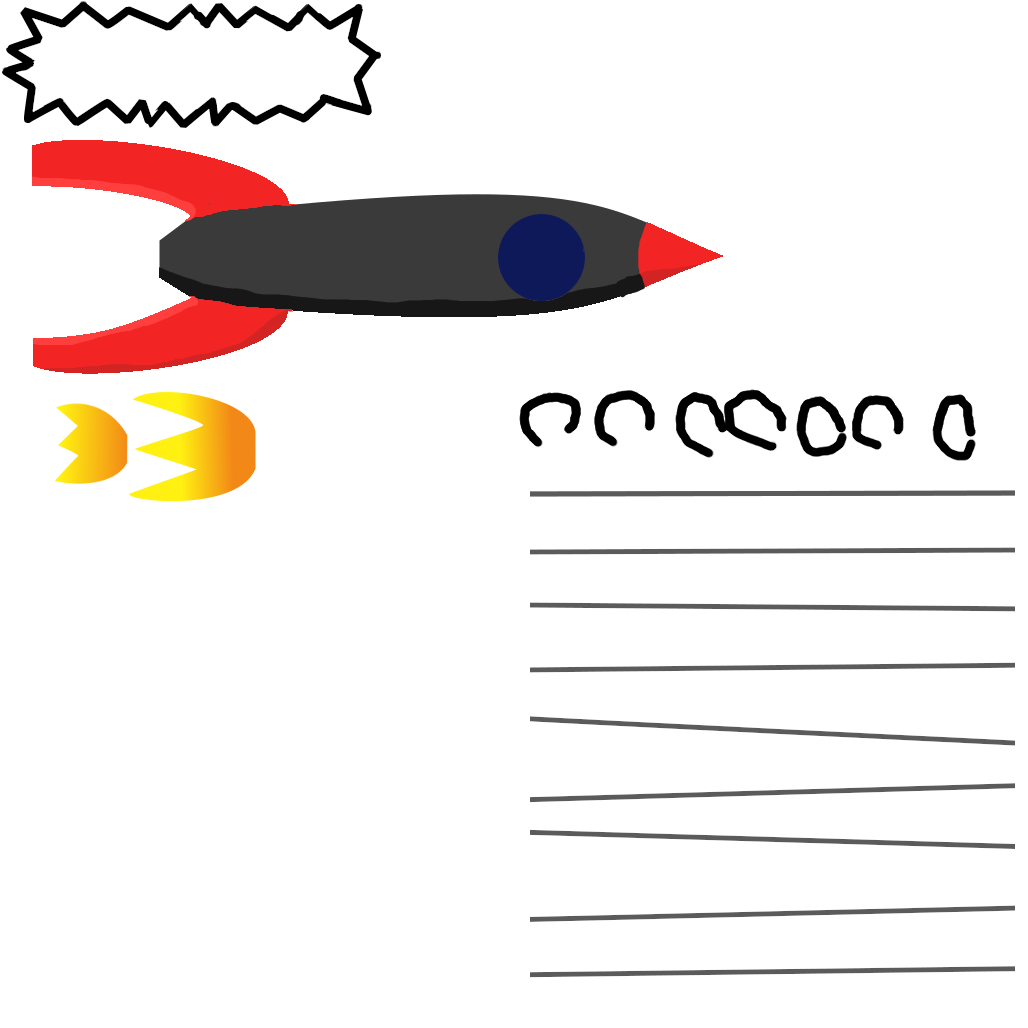
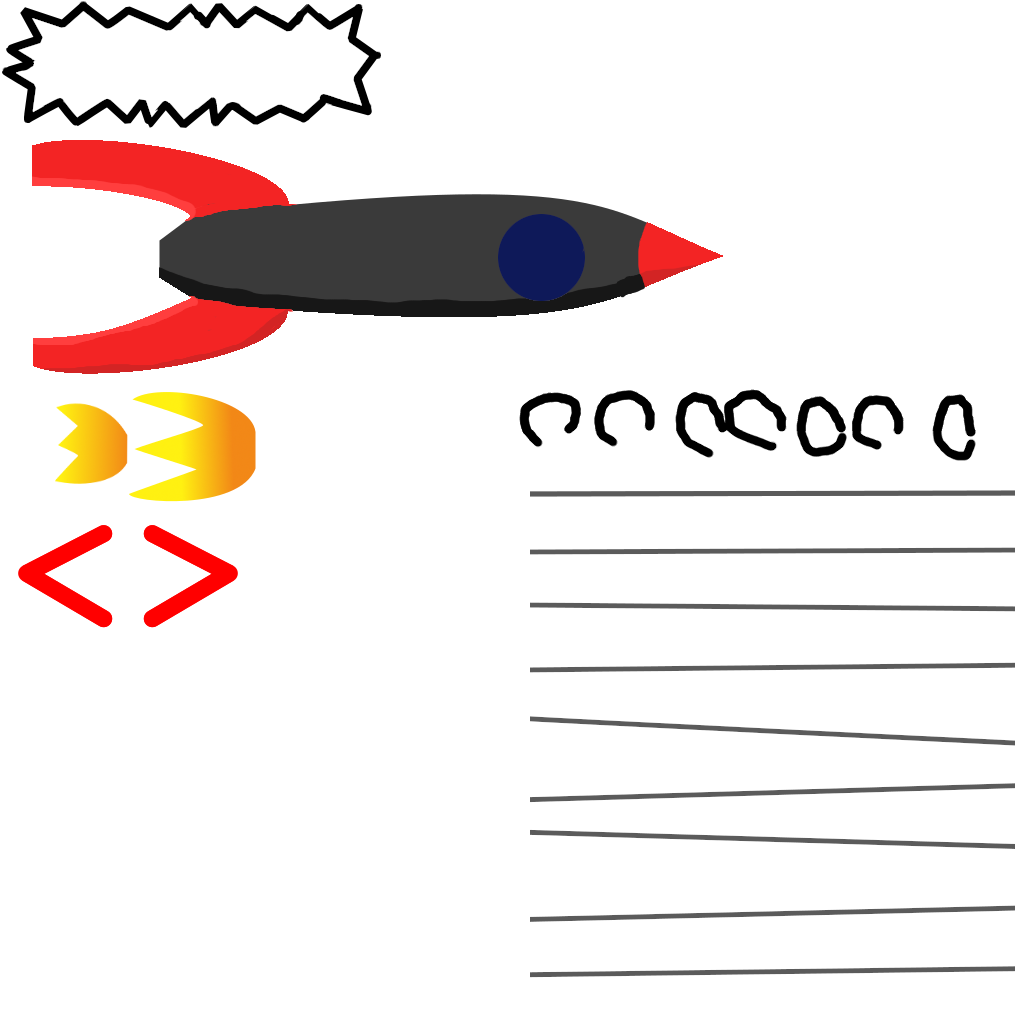
Added create server screen to the main menu.

Changed region(s): [[0.0, 0.4981, 0.249, 0.6226]]

diff --git a/client/src/client/MainMenu.java b/client/src/client/MainMenu.java
@@ -7,13 +7,15 @@ import javax.swing.*;
 import java.awt.*;
 import java.awt.image.BufferedImage;
 import java.io.*;
-import java.net.URLDecoder;
+import common.GameSettings;
 
 public class MainMenu extends JPanel {
 
     private boolean hasPlayedQuitAnimation = false;
-    private Image wham;
+    private Image wham, leftArrow, rightArrow;
     private Image rocket, flame0, flame1, block;
+
+    private GameSettings gameSettings = new GameSettings();
 
     MainMenu() {
         super(new CardLayout());
@@ -25,12 +27,15 @@ public class MainMenu extends JPanel {
             flame0 = spriteSheet.getSubimage(0, 384, 128, 128);
             flame1 = spriteSheet.getSubimage(128, 384, 128, 128);
             block = spriteSheet.getSubimage(512, 384, 512, 640);
+            leftArrow = spriteSheet.getSubimage(0, 512, 128, 128);
+            rightArrow = spriteSheet.getSubimage(128, 512, 128, 128);
         } catch (IOException e) {
             e.printStackTrace();
         }
 
         initMainMenu();
         initJoinGamePanel();
+        initCreateGamePanel();
     }
 
     private void initMainMenu() {
@@ -53,9 +58,8 @@ public class MainMenu extends JPanel {
         AwesomeUtil.wiggleOnHover(joinGameButton, (float)Math.PI * .1f);
         AwesomeUtil.scaleOnHover(createGameButton, 1.3f);
 
-        joinGameButton.addActionListener(e -> {
-            ((CardLayout)getLayout()).last(this);
-        });
+        joinGameButton.addActionListener(e -> ((CardLayout)getLayout()).next(this) );
+        createGameButton.addActionListener(e -> ((CardLayout)getLayout()).last(this) );
 
         quitButton.addActionListener(e -> {
             if (!hasPlayedQuitAnimation) {
@@ -110,8 +114,8 @@ public class MainMenu extends JPanel {
         panel.add(code);
         panel.add(bg);
 
-        layout.getConstraints(back).setPosition(0.3f, 0.7f).setSize(0.3f, 0.5f);
-        layout.getConstraints(accept).setPosition(0.7f, 0.7f).setSize(0.3f, 0.5f);
+        layout.getConstraints(back).setPosition(0.3f, 0.8f).setSize(0.3f, 0.5f);
+        layout.getConstraints(accept).setPosition(0.7f, 0.8f).setSize(0.3f, 0.5f);
         layout.getConstraints(code).setPosition(0.5f, 0.3f).setSize(0.8f, 0.2f);
         layout.getConstraints(input).setPosition(0.5f, 0.5f).setSize(0.8f, 0.2f);
         layout.getConstraints(bg).setPosition(0.5f, 0.5f).setSize(1.0f, 1.0f);
@@ -120,13 +124,156 @@ public class MainMenu extends JPanel {
         AwesomeUtil.wiggleOnHover(accept, (float)Math.PI * .1f);
 
         back.addActionListener(e -> {
-            ((CardLayout)getLayout()).first(this);
+            ((CardLayout)getLayout()).previous(this);
         });
 
         add(panel);
     }
 
     public void initCreateGamePanel() {
+        PercentLayout layout = new PercentLayout(1.0f);
+        JPanel panel = new JPanel(layout);
+        panel.setBackground(new Color(0, 0, 0, 0));
+        panel.setOpaque(true);
 
+        AwesomeText maxPlayersLabel = new AwesomeText("MAX PLAYERS:");
+        AwesomeButton increaseMaxPlayers = new AwesomeButton(rightArrow);
+        AwesomeButton decreaseMaxPlayers = new AwesomeButton(leftArrow);
+        AwesomeText maxPlayers = new AwesomeText(String.valueOf(gameSettings.getMaxPlayers()));
+        increaseMaxPlayers.addActionListener(e -> {
+            if (gameSettings.setMaxPlayers(gameSettings.getMaxPlayers() + 1)) {
+                maxPlayers.setText(String.valueOf(gameSettings.getMaxPlayers()));
+            } else {
+                AwesomeUtil.shakeHorizontally(maxPlayers, 20);
+            }
+        });
+        decreaseMaxPlayers.addActionListener(e -> {
+            if (gameSettings.setMaxPlayers(gameSettings.getMaxPlayers() - 1)) {
+                maxPlayers.setText(String.valueOf(gameSettings.getMaxPlayers()));
+            } else {
+                AwesomeUtil.shakeHorizontally(maxPlayers, 20);
+            }
+        });
+        panel.add(maxPlayersLabel);
+        panel.add(increaseMaxPlayers);
+        panel.add(decreaseMaxPlayers);
+        panel.add(maxPlayers);
+        layout.getConstraints(maxPlayersLabel).setPosition(0.3f, 0.15f).setSize(0.4f, 0.25f);
+        layout.getConstraints(increaseMaxPlayers).setPosition(0.9f, 0.15f).setSize(0.1f, 1.0f);
+        layout.getConstraints(decreaseMaxPlayers).setPosition(0.6f, 0.15f).setSize(0.1f, 1.0f);
+        layout.getConstraints(maxPlayers).setPosition(0.75f, 0.15f).setSize(0.2f, 0.5f);
+
+        AwesomeText numRoundsLabel = new AwesomeText("ROUNDS:");
+        AwesomeButton increase = new AwesomeButton(rightArrow);
+        AwesomeButton decrease = new AwesomeButton(leftArrow);
+        AwesomeText numRounds = new AwesomeText(String.valueOf(gameSettings.getNumRounds()));
+        increase.addActionListener(e -> {
+            if (gameSettings.setRounds(gameSettings.getNumRounds() + 1)) {
+                numRounds.setText(String.valueOf(gameSettings.getNumRounds()));
+            } else {
+                AwesomeUtil.shakeHorizontally(numRounds, 20);
+            }
+        });
+        decrease.addActionListener(e -> {
+            if (gameSettings.setRounds(gameSettings.getNumRounds() - 1)) {
+                numRounds.setText(String.valueOf(gameSettings.getNumRounds()));
+            } else {
+                AwesomeUtil.shakeHorizontally(numRounds, 20);
+            }
+        });
+        panel.add(numRoundsLabel);
+        panel.add(increase);
+        panel.add(decrease);
+        panel.add(numRounds);
+        layout.getConstraints(numRoundsLabel).setPosition(0.3f, 0.25f).setSize(0.4f, 0.25f);
+        layout.getConstraints(decrease).setPosition(0.6f, 0.25f).setSize(0.1f, 1.0f);
+        layout.getConstraints(increase).setPosition(0.9f, 0.25f).setSize(0.1f, 1.0f);
+        layout.getConstraints(numRounds).setPosition(0.75f, 0.25f).setSize(0.2f, 0.5f);
+
+        AwesomeText drawTimeLabel = new AwesomeText("DRAW TIME:");
+        AwesomeButton drawTimeIncrease = new AwesomeButton(rightArrow);
+        AwesomeButton drawTimeDecrease = new AwesomeButton(leftArrow);
+        AwesomeText drawTime = new AwesomeText(String.valueOf(gameSettings.getDrawTimeMilliseconds() / 1000L));
+        drawTimeIncrease.addActionListener(e -> {
+            int newSeconds = (int)(gameSettings.getDrawTimeMilliseconds() / 1000L) + 5;
+            if (gameSettings.setDrawTime(newSeconds)) {
+                drawTime.setText(String.valueOf(newSeconds));
+            } else {
+                AwesomeUtil.shakeHorizontally(drawTime, 20);
+            }
+        });
+        drawTimeDecrease.addActionListener(e -> {
+            int newSeconds = (int)(gameSettings.getDrawTimeMilliseconds() / 1000L) - 5;
+            if (gameSettings.setDrawTime(newSeconds)) {
+                drawTime.setText(String.valueOf(newSeconds));
+            } else {
+                AwesomeUtil.shakeHorizontally(drawTime, 20);
+            }
+        });
+        panel.add(drawTimeLabel);
+        panel.add(drawTimeIncrease);
+        panel.add(drawTimeDecrease);
+        panel.add(drawTime);
+        layout.getConstraints(drawTimeLabel).setPosition(0.3f, 0.35f).setSize(0.4f, 0.25f);
+        layout.getConstraints(drawTimeDecrease).setPosition(0.6f, 0.35f).setSize(0.1f, 1.0f);
+        layout.getConstraints(drawTimeIncrease).setPosition(0.9f, 0.35f).setSize(0.1f, 1.0f);
+        layout.getConstraints(drawTime).setPosition(0.75f, 0.35f).setSize(0.2f, 0.5f);
+
+        AwesomeText guessTimeLabel = new AwesomeText("GUESS TIME:");
+        AwesomeButton guessTimeIncrease = new AwesomeButton(rightArrow);
+        AwesomeButton guessTimeDecrease = new AwesomeButton(leftArrow);
+        AwesomeText guessTime = new AwesomeText(String.valueOf(gameSettings.getGuessTimeMilliseconds() / 1000L));
+        guessTimeIncrease.addActionListener(e -> {
+            int newSeconds = (int)(gameSettings.getGuessTimeMilliseconds() / 1000L) + 5;
+            if (gameSettings.setGuessTime(newSeconds)) {
+                guessTime.setText(String.valueOf(newSeconds));
+            } else {
+                AwesomeUtil.shakeHorizontally(guessTime, 20);
+            }
+        });
+        guessTimeDecrease.addActionListener(e -> {
+            int newSeconds = (int)(gameSettings.getGuessTimeMilliseconds() / 1000L) - 5;
+            if (gameSettings.setGuessTime(newSeconds)) {
+                guessTime.setText(String.valueOf(newSeconds));
+            } else {
+                AwesomeUtil.shakeHorizontally(guessTime, 20);
+            }
+        });
+        panel.add(guessTimeLabel);
+        panel.add(guessTimeIncrease);
+        panel.add(guessTimeDecrease);
+        panel.add(guessTime);
+        layout.getConstraints(guessTimeLabel).setPosition(0.3f, 0.45f).setSize(0.4f, 0.25f);
+        layout.getConstraints(guessTimeDecrease).setPosition(0.6f, 0.45f).setSize(0.1f, 1.0f);
+        layout.getConstraints(guessTimeIncrease).setPosition(0.9f, 0.45f).setSize(0.1f, 1.0f);
+        layout.getConstraints(guessTime).setPosition(0.75f, 0.45f).setSize(0.2f, 0.5f);
+
+        AwesomeText getChoicesLabel = new AwesomeText("CHOICES ENABLED:");
+        AwesomeButton choicesCountIncrease = new AwesomeButton(rightArrow);
+        AwesomeButton choicesCountDecrease = new AwesomeButton(leftArrow);
+        AwesomeText getChoices = new AwesomeText(gameSettings.getChooseWords() ? "Yes" : "No");
+        choicesCountIncrease.addActionListener(e -> { if (!gameSettings.getChooseWords())  { gameSettings.setChooseWords(); getChoices.setText("Yes"); } } );
+        choicesCountDecrease.addActionListener(e -> { if (gameSettings.getChooseWords()) { gameSettings.setChooseWords(); getChoices.setText("No"); } } );
+        panel.add(getChoicesLabel);
+        panel.add(choicesCountIncrease);
+        panel.add(choicesCountDecrease);
+        panel.add(getChoices);
+        layout.getConstraints(getChoicesLabel).setPosition(0.3f, 0.55f).setSize(0.4f, 0.25f);
+        layout.getConstraints(choicesCountIncrease).setPosition(0.9f, 0.55f).setSize(0.1f, 1.0f);
+        layout.getConstraints(choicesCountDecrease).setPosition(0.6f, 0.55f).setSize(0.1f, 1.0f);
+        layout.getConstraints(getChoices).setPosition(0.75f, 0.55f).setSize(0.2f, 0.5f);
+
+        AwesomeButton create = new AwesomeButton("Create");
+        AwesomeButton back = new AwesomeButton("Back");
+        panel.add(create);
+        panel.add(back);
+        layout.getConstraints(create).setPosition(0.75f, 0.8f).setSize(0.3f, 0.5f);
+        layout.getConstraints(back).setPosition(0.25f, 0.8f).setSize(0.3f, 0.5f);
+        create.addActionListener(e -> System.out.println("You created a server! (almost)"));
+        back.addActionListener(e -> ((CardLayout)getLayout()).first(this));
+        AwesomeUtil.wiggleOnHover(create, 0.1f);
+        AwesomeUtil.wiggleOnHover(back, 0.1f);
+
+        add(panel);
     }
 }

diff --git a/client/src/client/ui/AwesomeEffect.java b/client/src/client/ui/AwesomeEffect.java
@@ -34,6 +34,7 @@ public class AwesomeEffect {
         return new Builder();
     }
 
+    private final User target;
     private final Key[] keys;
     private Image sprite;
 
@@ -50,15 +51,15 @@ public class AwesomeEffect {
 
 
     private AwesomeEffect(Key[] keys, User user, int effects) {
+        target = user;
         this.keys = keys;
         this.effects = effects;
-        Component comp = user.getComponent();
         durationMillis = keys[keys.length - 1].timeStamp;
     }
 
     // Play the animation from the beginning in the forward direction.
     public void play() {
-        AwesomeUtil.register(this);
+        target.setEffect(this);
         elapsedMillis = 0;
         direction = FORWARD;
     }
@@ -70,18 +71,18 @@ public class AwesomeEffect {
 
     // Resumes the animation from where it's.
     public void resume() {
-        AwesomeUtil.register(this);
+        AwesomeUtil.register(target, this);
     }
 
     // Resumes the animation from where it's in the opposite direction.
     public void reverse() {
-        AwesomeUtil.register(this);
+        target.setEffect(this);
         direction = !direction;
     }
 
     // Resumes the animation from where it's in the given direction.
     public void setDirection(boolean dir) {
-        AwesomeUtil.register(this);
+        target.setEffect(this);
         direction = dir;
     }
 
@@ -423,9 +424,7 @@ public class AwesomeEffect {
             effect.originY = originY;
             effect.shouldBounce = shouldBounce;
             effect.repeatsLeft = numRepeats;
-
             user.setEffect(effect);
-            AwesomeUtil.register(effect);
         }
 
         public void animate(User user) {

diff --git a/client/src/client/ui/AwesomeUtil.java b/client/src/client/ui/AwesomeUtil.java
@@ -111,6 +111,15 @@ public class AwesomeUtil {
 
     }
 
+    public static void shakeHorizontally(AwesomeEffect.User target, int amount) {
+        AwesomeEffect.create()
+                .addTranslationXKey(amount, 50)
+                .addTranslationXKey(-amount, 150)
+                .addTranslationXKey(amount, 250)
+                .addTranslationXKey(-amount, 350)
+                .addTranslationXKey(0, 400).animate(target);
+    }
+
     public static void increaseDelta() {
         int delta = 1000 / 20;
         if (lastDeltaIncrease == 0) {
@@ -129,7 +138,13 @@ public class AwesomeUtil {
         }
     }
 
-    public static void register(AwesomeEffect effect) {
+    public static void register(AwesomeEffect.User user, AwesomeEffect effect) {
+        if (effect == null) return;
+        AwesomeEffect existingEffect = user.getEffect();
+        if (existingEffect != null && existingEffect != effect) {
+            activeEffects.remove(existingEffect);
+            user.setEffect(null);
+        }
         activeEffects.add(effect);
     }
 

diff --git a/client/src/client/ui/AwesomeText.java b/client/src/client/ui/AwesomeText.java
@@ -8,13 +8,20 @@ import java.awt.*;
  */
 public class AwesomeText extends JComponent implements AwesomeEffect.User {
 
-    private static Font font;
     private String text;
     private AwesomeEffect effect;
 
     public AwesomeText(String text) {
         this.text = text;
         setFont(AwesomeUtil.getFont());
+    }
+
+    public String getText() {
+        return text;
+    }
+
+    public void setText(String text) {
+        this.text = text;
     }
 
     @Override
@@ -30,7 +37,7 @@ public class AwesomeText extends JComponent implements AwesomeEffect.User {
 
     @Override
     public void setEffect(AwesomeEffect effect) {
-        AwesomeUtil.register(effect);
+        AwesomeUtil.register(this, effect);
         this.effect = effect;
     }
 

diff --git a/client/src/client/ui/AwesomeButton.java b/client/src/client/ui/AwesomeButton.java
@@ -16,6 +16,10 @@ public class AwesomeButton extends JButton implements AwesomeEffect.User {
         this(text, null);
     }
 
+    public AwesomeButton(Image background) {
+        this(null, background);
+    }
+
     public AwesomeButton(String text, Image background) {
         super(text);
         setFont(AwesomeUtil.getFont());
@@ -47,7 +51,7 @@ public class AwesomeButton extends JButton implements AwesomeEffect.User {
 
     @Override
     public void setEffect(AwesomeEffect effect) {
-        AwesomeUtil.register(effect);
+        AwesomeUtil.register(this, effect);
         this.effect = effect;
     }
 

diff --git a/client/src/client/ui/AwesomeImage.java b/client/src/client/ui/AwesomeImage.java
@@ -22,7 +22,7 @@ public class AwesomeImage extends Component implements AwesomeEffect.User {
 
     @Override
     public void setEffect(AwesomeEffect effect) {
-        AwesomeUtil.register(effect);
+        AwesomeUtil.register(this, effect);
         this.effect = effect;
     }
 
